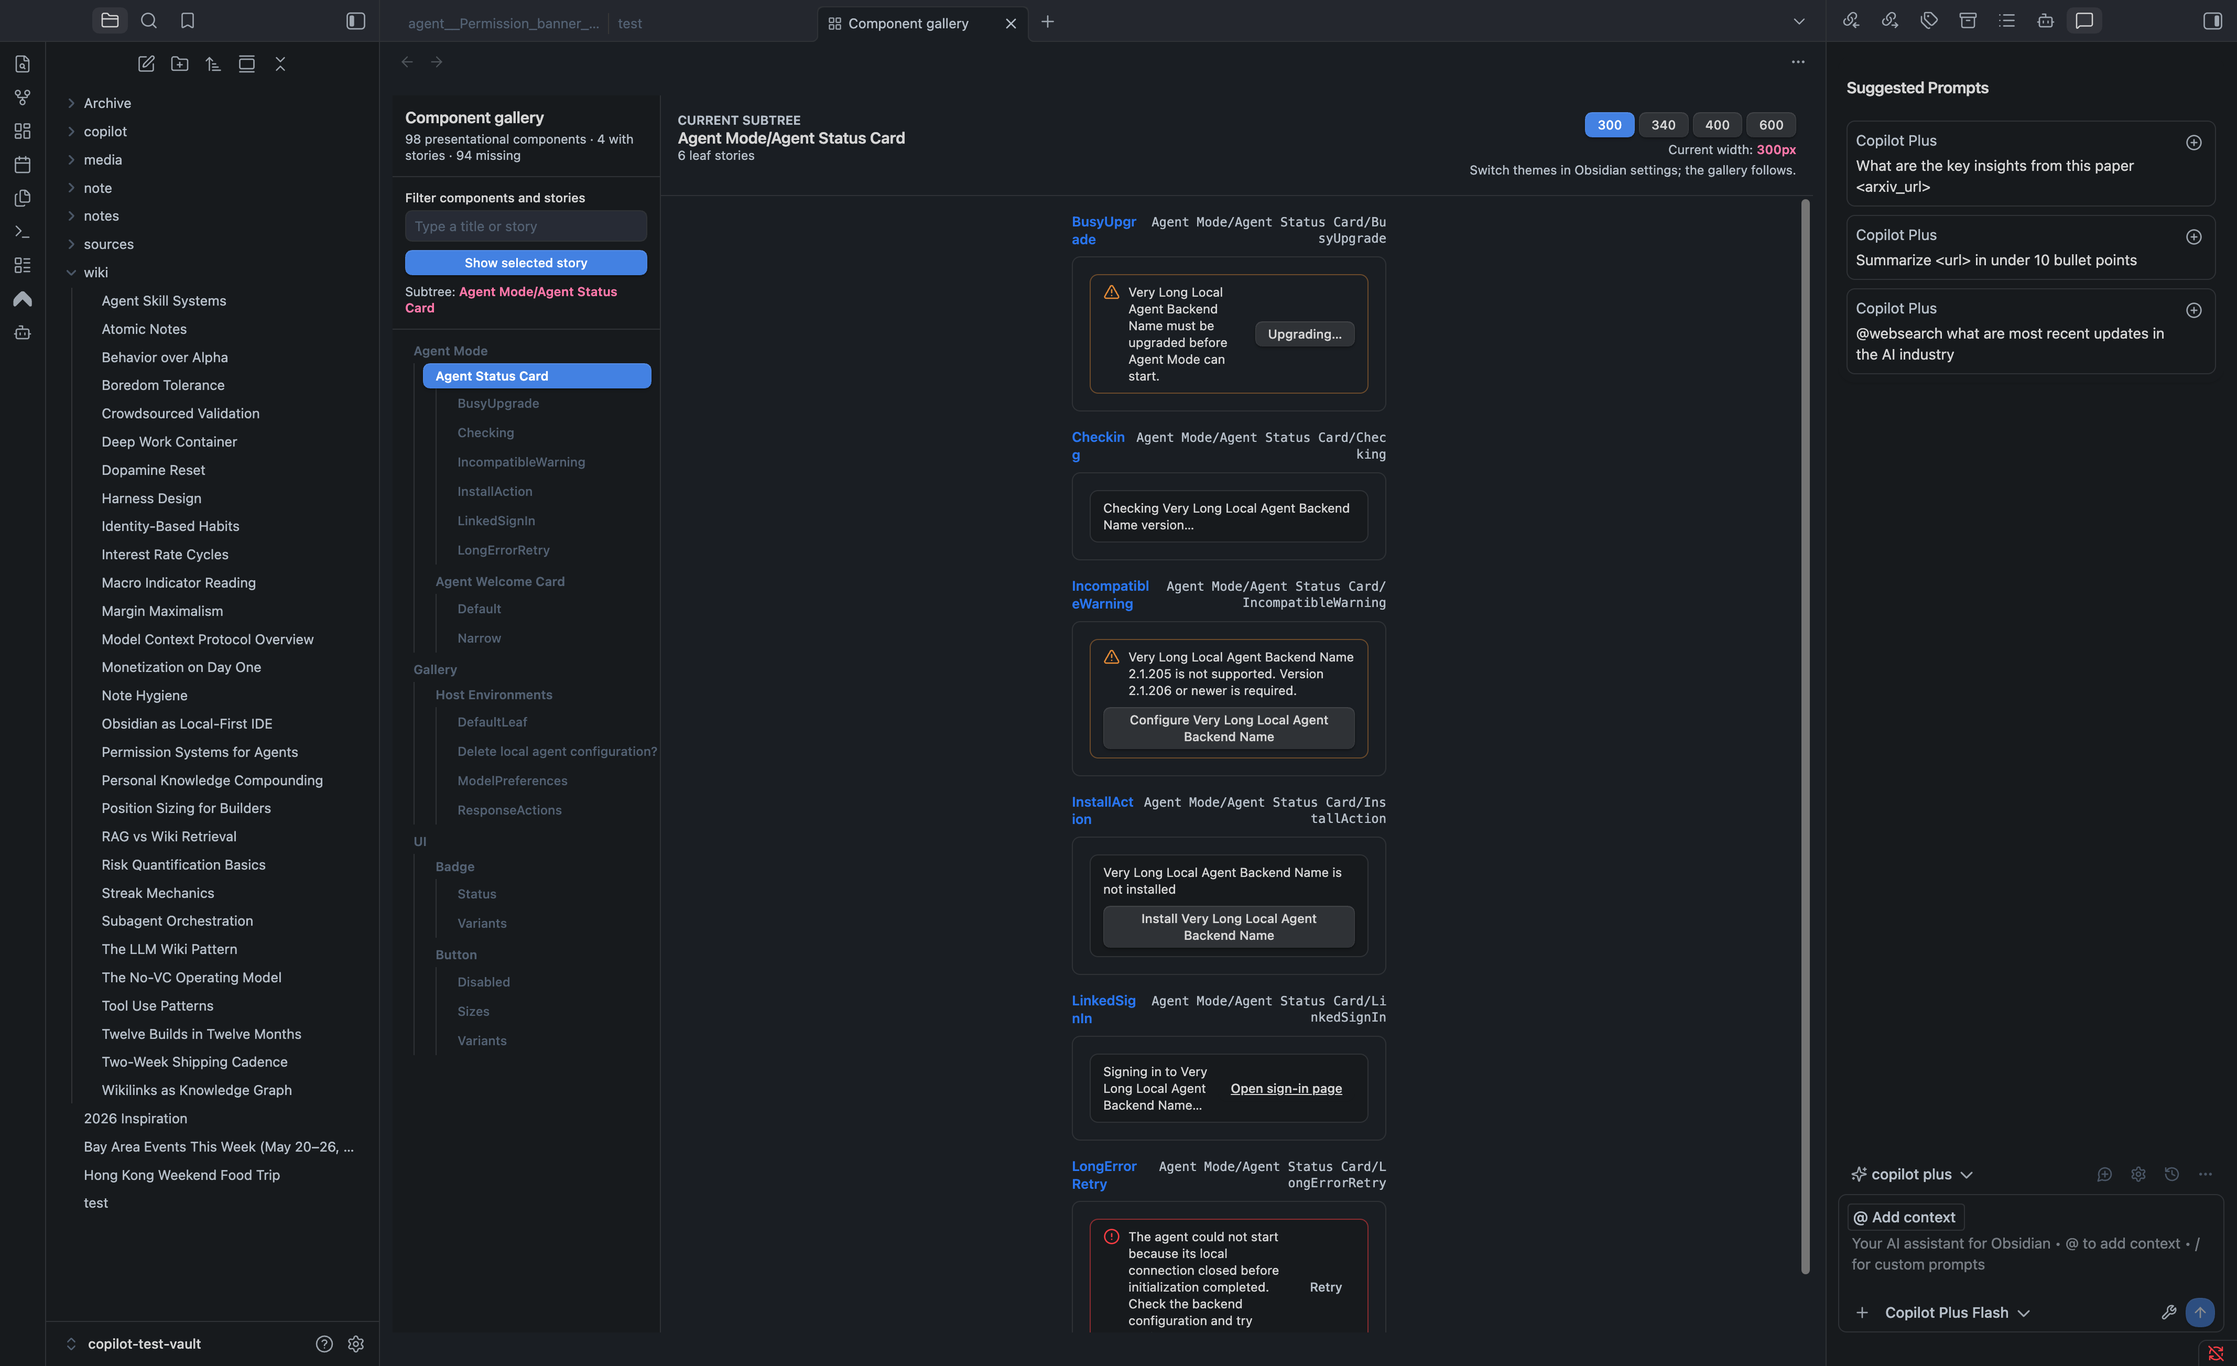
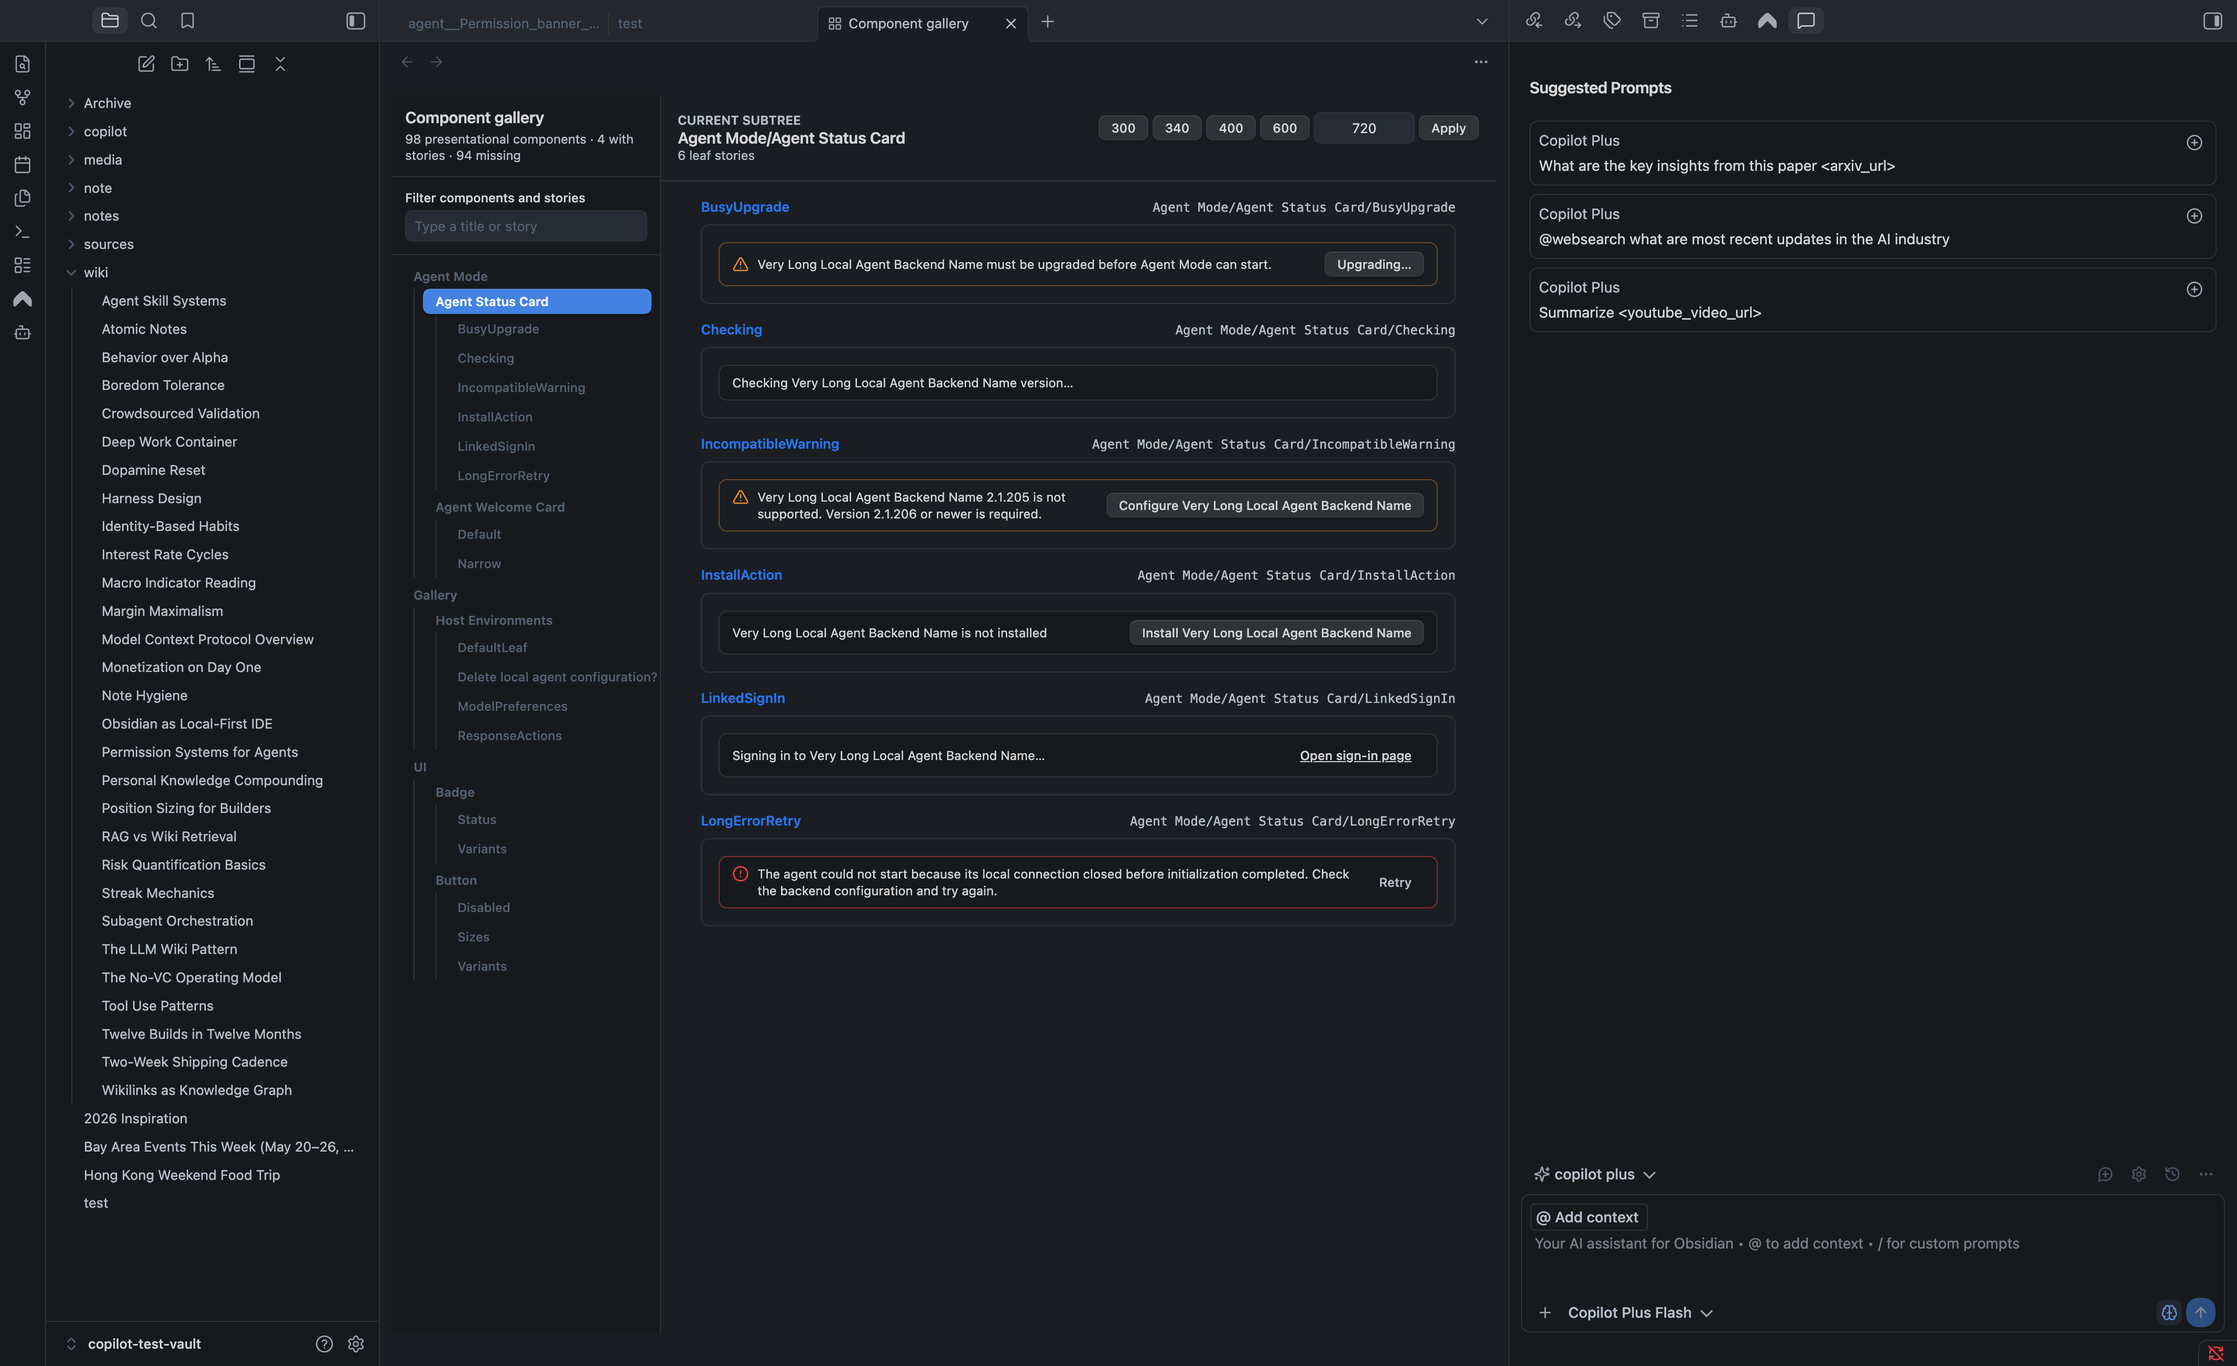
fix(dev): persist gallery viewport width

diff --git a/dev/gallery/Gallery.test.tsx b/dev/gallery/Gallery.test.tsx
@@ -89,7 +89,7 @@ function makeCatalog(): GalleryCatalog {
     coveredCount: 4,
     stories: [
       makeStory("Agent Mode/Agent Welcome Card/Default", { layout: "fullscreen" }),
-      makeStory("UI/Badge/Status", { layout: "centered" }),
+      makeStory("UI/Badge/Status", { layout: "centered", width: 340 }),
       makeStory("UI/Button/Modal", { host: "modal" }),
       makeStory("UI/Button/Popover", { host: "popover" }),
       makeStory("UI/Button/Primary", {
@@ -413,9 +413,20 @@ describe("Gallery", () => {
           '[data-story="Agent Mode/Agent Welcome Card/Default"][data-story-width="400"]'
         )
       ).toBeTruthy();
+      expect(gallery.queryByText("Current width:")).toBeNull();
       expect(
-        gallery.getByText("Switch themes in Obsidian settings; the gallery follows.")
-      ).toBeTruthy();
+        gallery.queryByText("Switch themes in Obsidian settings; the gallery follows.")
+      ).toBeNull();
+      expect(
+        within(navigation).queryByRole("button", {
+          name: /Show (selected story|subtree contact sheet)/,
+        })
+      ).toBeNull();
+      expect(
+        within(navigation).queryByText((_content, element) =>
+          Boolean(element?.tagName === "P" && element.textContent?.startsWith("Subtree:"))
+        )
+      ).toBeNull();
     });
 
     it("filters by component title or story name and restores the tree when cleared", () => {
@@ -484,7 +495,7 @@ describe("Gallery", () => {
 
       fireEvent.click(gallery.getByRole("button", { name: "Show UI contact sheet" }));
 
-      fireEvent.click(gallery.getByRole("button", { name: "Show selected story" }));
+      fireEvent.click(gallery.getByRole("button", { name: "Modal" }));
       expect(gallery.getByText("UI/Button/Modal")).toBeTruthy();
       expect(gallery.container.querySelectorAll("[data-gallery-story-id]")).toHaveLength(1);
     });
@@ -697,7 +708,7 @@ describe("Gallery", () => {
       fireEvent.click(gallery.getByRole("button", { name: "300" }));
       expect(canvas?.dataset.galleryWidth).toBe("300");
       expect(canvas?.style.width).toBe("300px");
-      expect(gallery.getByText("Current width:").parentElement?.textContent).toContain("300px");
+      expect(gallery.queryByText("Current width:")).toBeNull();
 
       const fullscreenContent = gallery.container.querySelector<HTMLElement>(
         '[data-gallery-story-id="Agent Mode/Agent Welcome Card/Default"] > div'
@@ -710,9 +721,11 @@ describe("Gallery", () => {
       expect(canvas?.parentElement?.parentElement?.classList.contains("tw-p-4")).toBe(false);
 
       fireEvent.click(gallery.getByRole("button", { name: "Status" }));
+      expect(canvas?.dataset.galleryWidth).toBe("300");
       const centeredContent = gallery.container.querySelector<HTMLElement>(
         '[data-gallery-story-id="UI/Badge/Status"] > div'
       );
+      expect(centeredContent?.parentElement?.dataset.storyWidth).toBe("300");
       expect(centeredContent?.classList.contains("tw-items-center")).toBe(true);
       expect(centeredContent?.classList.contains("tw-justify-center")).toBe(true);
       expect(centeredContent?.classList.contains("tw-p-4")).toBe(true);
@@ -726,14 +739,62 @@ describe("Gallery", () => {
       expect(paddedContent?.classList.contains("tw-p-4")).toBe(true);
     });
 
-    it("uses a positive external width without adding another width control", () => {
+    it("applies a valid custom width across stories and rejects invalid drafts", () => {
+      const gallery = render(<GalleryHarness catalog={makeCatalog()} />);
+      const canvas = gallery.container.querySelector<HTMLElement>(".copilot-gallery-canvas");
+      const customWidth = gallery.getByRole("spinbutton", {
+        name: "Custom story width in pixels",
+      }) as HTMLInputElement;
+      const applyCustomWidth = gallery.getByRole("button", { name: "Apply custom width" });
+
+      expect(customWidth.value).toBe("");
+      expect(applyCustomWidth.hasAttribute("disabled")).toBe(true);
+
+      customWidth.focus();
+      fireEvent.change(customWidth, { target: { value: "1920" } });
+      fireEvent.keyDown(customWidth, { key: "Enter" });
+      expect(canvas?.dataset.galleryWidth).toBe("1920");
+      expect(canvas?.style.width).toBe("1920px");
+      expect(customWidth.value).toBe("1920");
+      expect(gallery.container.ownerDocument.activeElement).toBe(customWidth);
+
+      fireEvent.change(customWidth, { target: { value: "1440" } });
+      applyCustomWidth.focus();
+      fireEvent.click(applyCustomWidth);
+      expect(canvas?.dataset.galleryWidth).toBe("1440");
+      expect(customWidth.value).toBe("1440");
+      expect(gallery.container.ownerDocument.activeElement).toBe(applyCustomWidth);
+
+      fireEvent.click(gallery.getByRole("button", { name: "Status" }));
+      expect(canvas?.dataset.galleryWidth).toBe("1440");
+      expect(
+        gallery.container.querySelector('[data-story="UI/Badge/Status"][data-story-width="1440"]')
+      ).toBeTruthy();
+
+      fireEvent.change(customWidth, { target: { value: "0" } });
+      expect(applyCustomWidth.hasAttribute("disabled")).toBe(true);
+      fireEvent.blur(customWidth);
+      expect(customWidth.value).toBe("1440");
+      expect(canvas?.dataset.galleryWidth).toBe("1440");
+
+      fireEvent.click(gallery.getByRole("button", { name: "600" }));
+      expect(customWidth.value).toBe("");
+      fireEvent.click(gallery.getByRole("button", { name: "Primary" }));
+      expect(canvas?.dataset.galleryWidth).toBe("600");
+    });
+
+    it("shows a positive external width in the custom input without adding a preset", () => {
       const gallery = render(
         <GalleryHarness catalog={makeCatalog()} initialState={{ width: 512 }} />
       );
       const canvas = gallery.container.querySelector<HTMLElement>(".copilot-gallery-canvas");
+      const customWidth = gallery.getByRole("spinbutton", {
+        name: "Custom story width in pixels",
+      }) as HTMLInputElement;
 
       expect(canvas?.dataset.galleryWidth).toBe("512");
       expect(canvas?.style.width).toBe("512px");
+      expect(customWidth.value).toBe("512");
       expect(gallery.getAllByRole("button", { name: /^(300|340|400|600)$/ })).toHaveLength(4);
       expect(gallery.container.querySelector('[data-story-width="512"]')).toBeTruthy();
     });

diff --git a/dev/gallery/Gallery.tsx b/dev/gallery/Gallery.tsx
@@ -89,10 +89,91 @@ interface StoryHostProps {
   width: number;
 }
 
+interface CustomWidthControlProps {
+  onApply: (width: number) => void;
+  width: number;
+}
+
+interface CustomWidthDraft {
+  sourceWidth: number;
+  value: string;
+}
+
 const DEFAULT_WIDTH: GalleryWidth = 400;
 
 function isPositiveWidth(value: unknown): value is number {
   return typeof value === "number" && Number.isFinite(value) && value > 0;
+}
+
+function CustomWidthControl({ onApply, width }: CustomWidthControlProps): React.ReactElement {
+  const widthIsPreset = GALLERY_WIDTHS.some((presetWidth) => presetWidth === width);
+  const defaultDraft = widthIsPreset ? "" : String(width);
+  const [draftState, setDraftState] = React.useState<CustomWidthDraft>(() => ({
+    sourceWidth: width,
+    value: defaultDraft,
+  }));
+  if (draftState.sourceWidth !== width) {
+    setDraftState({ sourceWidth: width, value: defaultDraft });
+  }
+  const draft = draftState.sourceWidth === width ? draftState.value : defaultDraft;
+  const parsedWidth = Number(draft);
+  const draftIsValid =
+    draft.trim() !== "" && Number.isInteger(parsedWidth) && isPositiveWidth(parsedWidth);
+
+  const apply = () => {
+    if (draftIsValid) {
+      onApply(parsedWidth);
+    }
+  };
+
+  const resetInvalidDraft = () => {
+    if (!draftIsValid) {
+      setDraftState({ sourceWidth: width, value: defaultDraft });
+    }
+  };
+
+  return (
+    <>
+      <input
+        aria-invalid={draft !== "" && !draftIsValid}
+        aria-label="Custom story width in pixels"
+        className={cn(
+          "tw-h-6 tw-w-24 tw-rounded-md tw-border tw-border-solid tw-bg-primary tw-px-2 tw-text-center tw-text-ui-smaller tw-text-normal focus:tw-border-border-focus focus:tw-outline-none",
+          widthIsPreset ? "tw-border-border" : "tw-border-interactive-accent",
+          draft !== "" && !draftIsValid && "tw-border-error"
+        )}
+        inputMode="numeric"
+        min={1}
+        onBlur={resetInvalidDraft}
+        onChange={(event) =>
+          setDraftState({ sourceWidth: width, value: event.currentTarget.value })
+        }
+        onKeyDown={(event) => {
+          if (event.key === "Enter") {
+            event.preventDefault();
+            apply();
+          } else if (event.key === "Escape") {
+            setDraftState({ sourceWidth: width, value: defaultDraft });
+          }
+        }}
+        placeholder="Custom px"
+        step={1}
+        title="Enter 1920 for a 1080p-wide viewport"
+        type="number"
+        value={draft}
+      />
+      <Button
+        aria-label="Apply custom width"
+        disabled={!draftIsValid}
+        onClick={apply}
+        size="sm"
+        type="button"
+        variant="secondary"
+      >
+        Apply
+      </Button>
+    </>
+  );
 }
 
 function storyBelongsToSubtree(story: StoryDefinition, subtree: string): boolean {
@@ -676,14 +757,12 @@ export function Gallery({
         (story) => story.host !== "leaf" && storyBelongsToSubtree(story, selectedSubtree)
       )
     : [];
-
   const selectStory = (story: StoryDefinition) => {
     onStateChange({
       ...state,
       contactSheet: false,
       selectedStoryId: story.id,
       selectedSubtree: story.title,
-      width: story.width ?? state.width,
     });
   };
 
@@ -725,14 +804,6 @@ export function Gallery({
     onStateChange({ ...state, contactSheet: true, selectedSubtree: path });
   };
 
-  const toggleContactSheet = () => {
-    onStateChange({
-      ...state,
-      contactSheet: !state.contactSheet,
-      selectedSubtree,
-    });
-  };
-
   return (
     <div className="tw-flex tw-h-full tw-min-h-0 tw-bg-primary tw-text-normal">
       <aside
@@ -748,7 +819,7 @@ export function Gallery({
           </p>
         </header>
 
-        <div className="copilot-divider-b tw-flex tw-flex-col tw-gap-2 tw-p-3">
+        <div className="copilot-divider-b tw-p-3">
           <label className="tw-flex tw-flex-col tw-gap-1 tw-text-ui-smaller tw-font-medium">
             Filter components and stories
             <input
@@ -760,18 +831,6 @@ export function Gallery({
               value={filter}
             />
           </label>
-          <Button
-            aria-pressed={state.contactSheet}
-            onClick={toggleContactSheet}
-            size="sm"
-            type="button"
-            variant={state.contactSheet ? "default" : "secondary"}
-          >
-            {state.contactSheet ? "Show selected story" : "Show subtree contact sheet"}
-          </Button>
-          <p className="tw-m-0 tw-text-smallest tw-text-muted">
-            Subtree: <strong>{selectedSubtree ?? "None"}</strong>
-          </p>
         </div>
 
         <nav aria-label="Story tree" className="tw-min-h-0 tw-flex-1 tw-overflow-y-auto tw-p-2">
@@ -818,8 +877,11 @@ export function Gallery({
             )}
           </div>
 
-          <div className="tw-flex tw-flex-col tw-items-end tw-gap-1">
-            <div aria-label="Story width" className="tw-flex tw-flex-wrap tw-justify-end tw-gap-1">
+          <div className="tw-flex tw-items-center tw-justify-end">
+            <div
+              aria-label="Story width"
+              className="tw-flex tw-flex-wrap tw-items-center tw-justify-end tw-gap-1"
+            >
               {GALLERY_WIDTHS.map((width) => (
                 <Button
                   aria-pressed={state.width === width}
@@ -832,13 +894,11 @@ export function Gallery({
                   {width}
                 </Button>
               ))}
+              <CustomWidthControl
+                onApply={(width) => onStateChange({ ...state, width })}
+                width={state.width}
+              />
             </div>
-            <p className="tw-m-0 tw-text-smallest tw-text-muted">
-              Current width: <strong>{state.width}px</strong>
-            </p>
-            <p className="tw-m-0 tw-text-smallest tw-text-muted">
-              Switch themes in Obsidian settings; the gallery follows.
-            </p>
           </div>
         </header>
 

diff --git a/dev/gallery/main.test.ts b/dev/gallery/main.test.ts
@@ -298,7 +298,10 @@ describe("main", () => {
         const gallery = render(renderView() as ReactElement);
 
         expect(gallery.getByText("UI/Button/Sizes")).toBeTruthy();
-        expect(gallery.getByText("Current width:").parentElement?.textContent).toContain("300px");
+        expect(gallery.getByRole("button", { name: "300" }).getAttribute("aria-pressed")).toBe(
+          "true"
+        );
+        expect(gallery.queryByText("Current width:")).toBeNull();
         expect(gallery.container.querySelectorAll("[data-gallery-story-id]")).toHaveLength(1);
         expect(
           gallery.container.querySelector('[data-gallery-story-id="UI/Button/Sizes"]')
@@ -422,13 +425,13 @@ describe("main", () => {
         }
         const gallery = render(renderView() as ReactElement);
 
-        fireEvent.click(gallery.getByRole("button", { name: "Sizes" }));
-        gallery.rerender(renderView() as ReactElement);
         fireEvent.click(gallery.getByRole("button", { name: "600" }));
+        gallery.rerender(renderView() as ReactElement);
+        fireEvent.click(gallery.getByRole("button", { name: "Disabled" }));
 
         expect(view.getState()).toMatchObject({
           contactSheet: false,
-          selectedStoryId: "UI/Button/Sizes",
+          selectedStoryId: "UI/Button/Disabled",
           selectedSubtree: "UI/Button",
           width: 600,
         });

diff --git a/designdocs/gallery-bootstrap.md b/designdocs/gallery-bootstrap.md
@@ -22,6 +22,8 @@ Suggested location: `designdocs/gallery-bootstrap.md`
 
 Step 10 follow-up: replaced five invalid `tw-border-{side} tw-border-solid` Gallery dividers that activated default widths on every side with explicit one-side rules, as required by the repository styling reference. Focused Gallery/CSS tests pass (21 tests); full Jest passes (374 suites / 5,287 tests); format, lint, TypeScript, Gallery build, and production build pass; production artifact hashes remain unchanged. In `copilot-test-vault`, computed styles show exactly `1px solid` on each intended side and `0px none` elsewhere, all six Agent Status Card stories remain 300px without overflow, `dev:errors` is clean, and the PR screenshot is replaced with the corrected border rendering.
 
+Step 10 follow-up: viewport width is now user-owned state instead of story metadata, so every preset and an arbitrary positive integer custom width persist while selecting other stories. The header adds a custom-pixel input with Apply/Enter support and a 1920px hint for a 1080p-wide viewport; it removes the redundant current-width and Obsidian-theme explanations. The sidebar removes the global selected-story/contact-sheet toggle and `Subtree:` label while retaining direct contact-sheet selection on component-tree headings. Focused Gallery/ItemView tests pass (2 suites / 40 tests); full Jest passes (374 suites / 5,288 tests); format, lint, TypeScript, Gallery build, and production build pass; production artifact hashes remain unchanged. In `copilot-test-vault`, 600px survived a switch to a 300px-metadata story and custom 1920px survived a second story switch; Enter kept focus on the input, Apply kept focus on its button, and the removed controls and copy were absent from the live DOM. The final Agent Status Card contact sheet rendered all six stories at custom 720px without overflow, `dev:errors` was clean, production Copilot Chat remained a separate live pane, the vault appearance SHA-256 remained byte-identical, and the PR screenshot was replaced with this verified state.
+
 <!-- gallery-progress-ledger:end -->
 
 ## Objective
